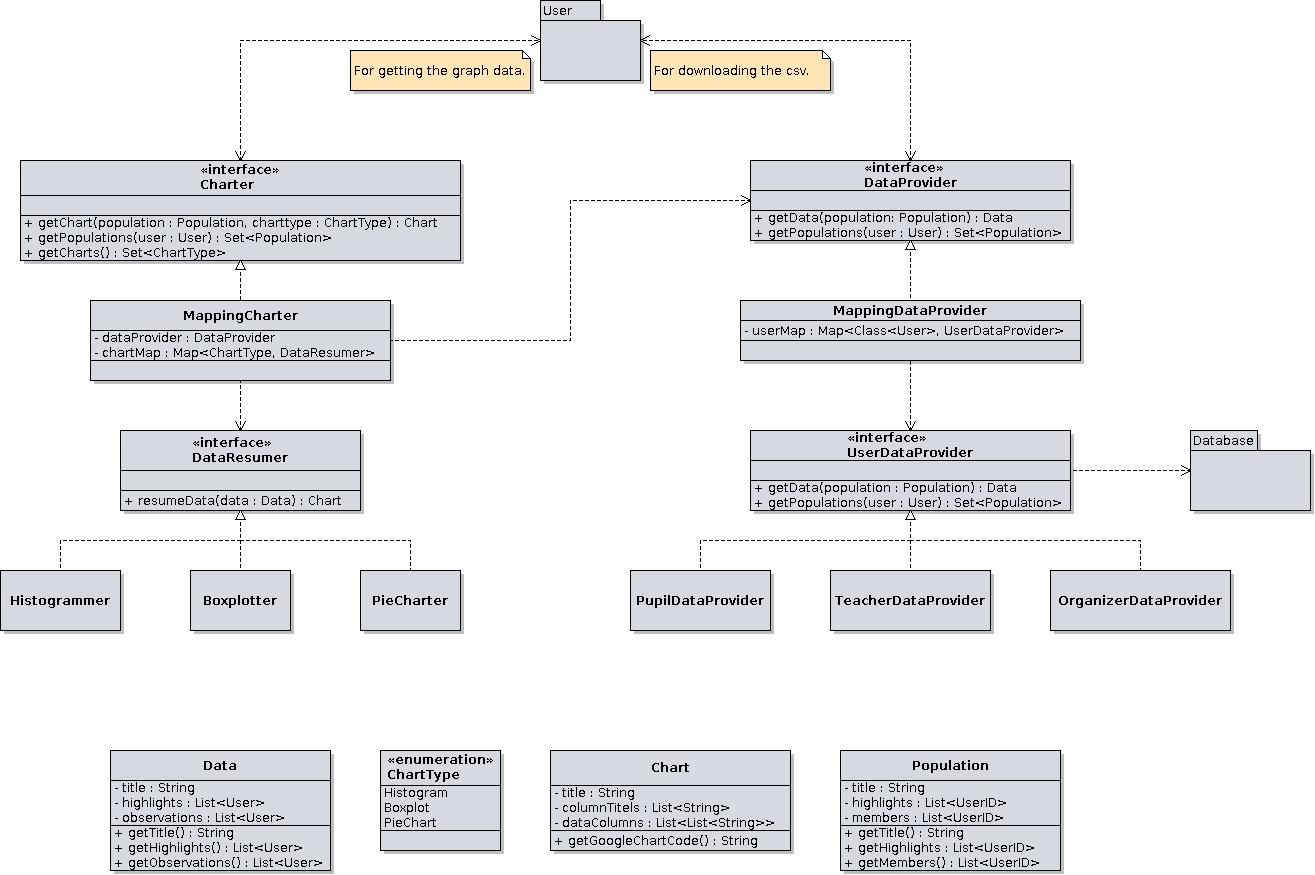
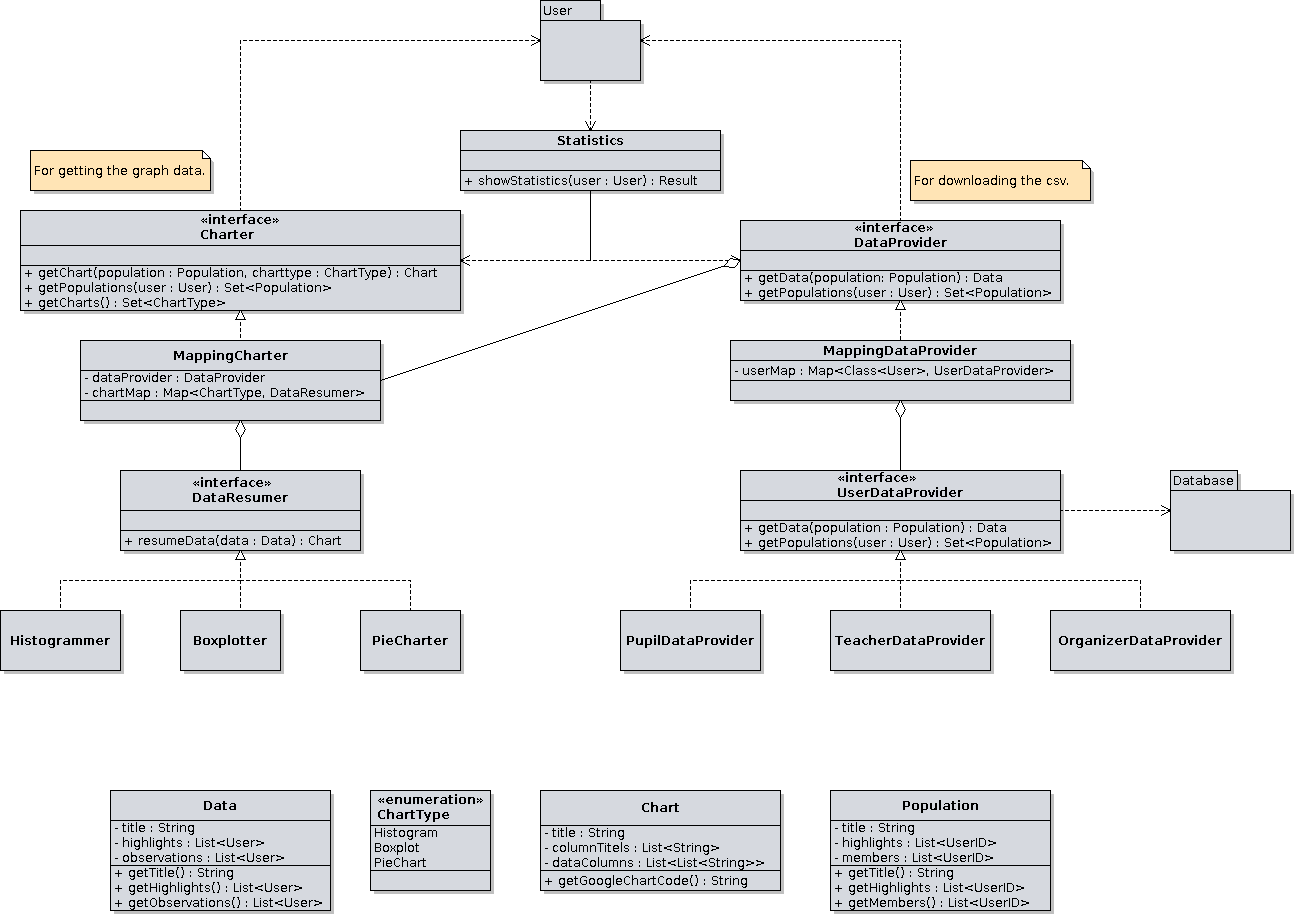
Write Statistics and User implementation plan

diff --git a/design/implementation_plan/subsystems/user.tex b/design/implementation_plan/subsystems/user.tex
@@ -1,0 +1,15 @@
+\begin{subsection}{Question}
+	\textbf{Estimated amount of work:} 25\% \\
+    \textbf{Responsible team member:} Sander, Eddy \& Felix \\
+	\textbf{Class Diagram:} \\
+	
+	\begin{figure}[!h]
+	  \centering
+		\includegraphics[width=1\textwidth]{../class_diagrams/user.png}
+	  \caption{Subsystem User}
+	  \label{subsystem_question}
+	\end{figure}
+	
+	\textbf{Remarks:} \\
+	
+\end{subsection}

diff --git a/design/implementation_plan/subsystems/statistics.tex b/design/implementation_plan/subsystems/statistics.tex
@@ -1,0 +1,15 @@
+\begin{subsection}{Question}
+	\textbf{Estimated amount of work:} 10\% \\
+	\textbf{Responsible team member:} Felix \\
+	\textbf{Class Diagram:} \\
+	
+	\begin{figure}[!h]
+	  \centering
+		\includegraphics[width=1\textwidth]{../class_diagrams/statistics.png}
+	  \caption{Subsystem Statistics}
+	  \label{subsystem_question}
+	\end{figure}
+	
+	\textbf{Remarks:} \\
+	
+\end{subsection}

diff --git a/design/implementation_plan/implementation.tex b/design/implementation_plan/implementation.tex
@@ -59,8 +59,8 @@
 	%\input{subsystems/database}
 	\input{subsystems/competition}
 	\input{subsystems/question}
-	%\input{subsystems/user}
-	%\input{subsystems/stats}
+	\input{subsystems/user}
+	\input{subsystems/statistics}
 	%\input{subsystems/data}
 	
 \end{section}	
